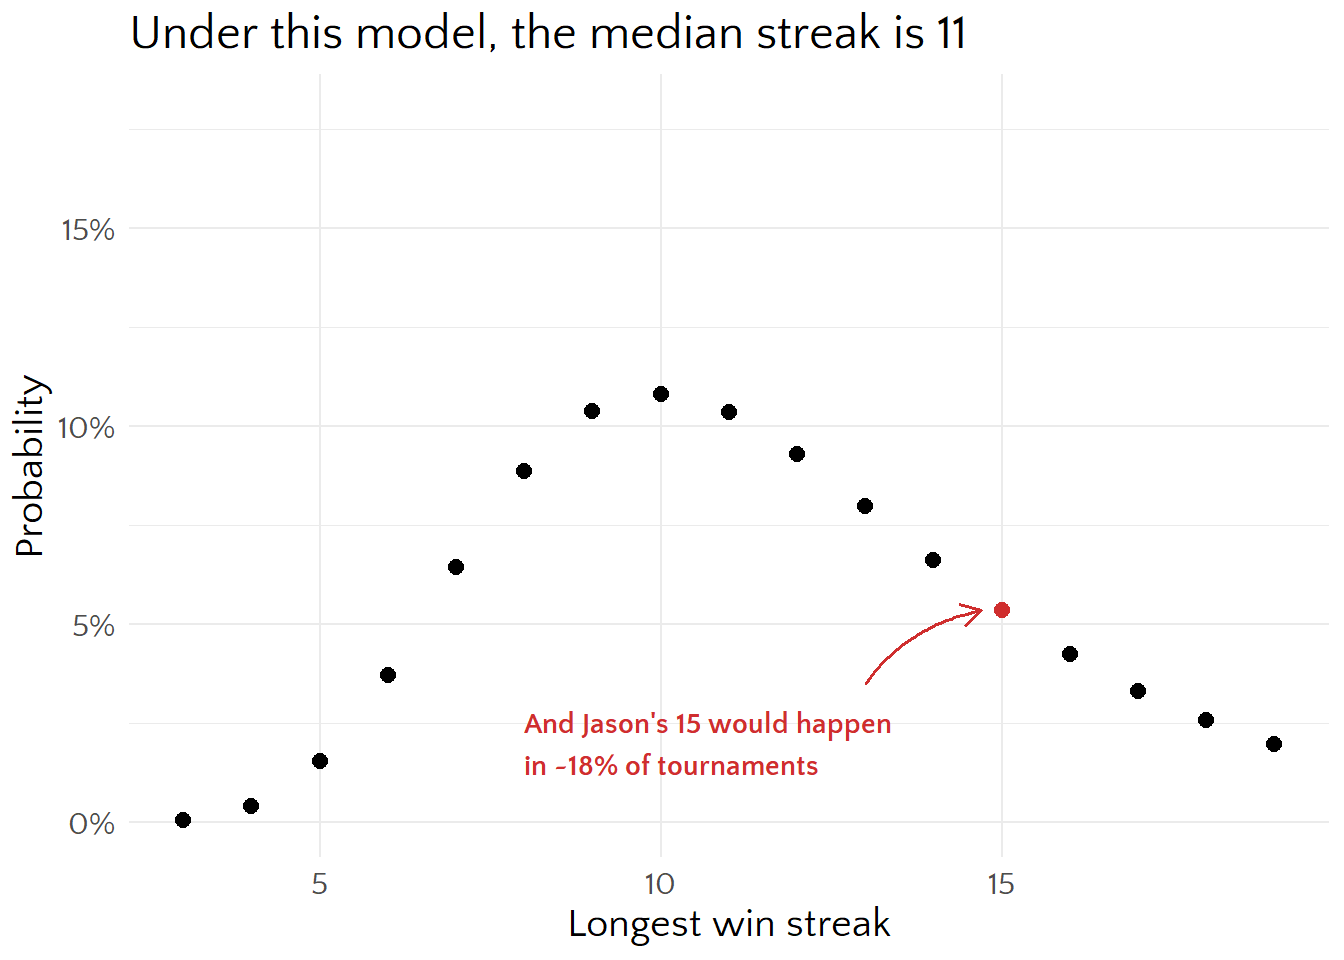
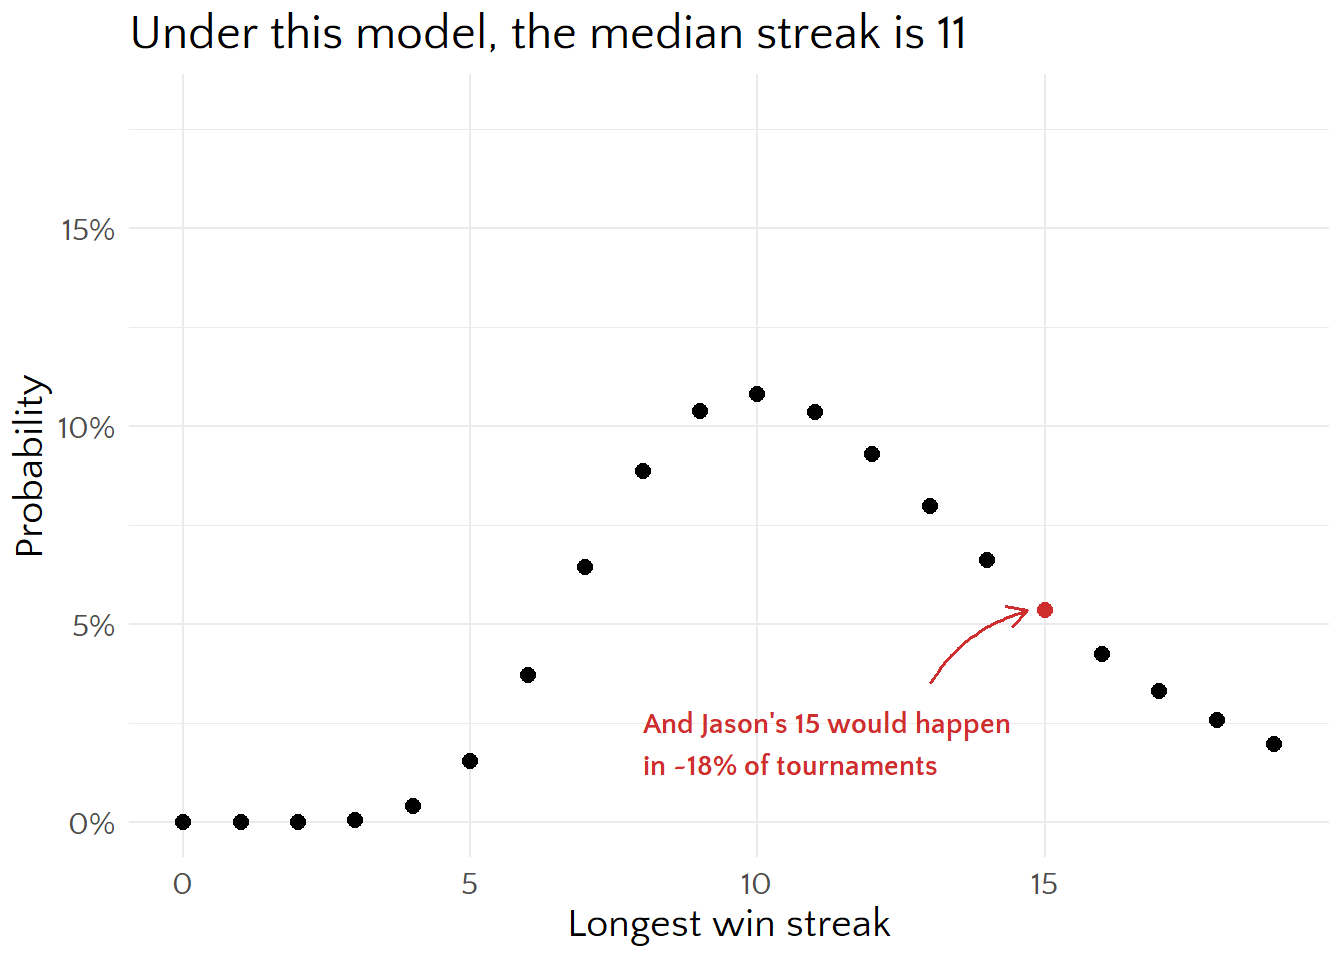
updated itch.io game embed

diff --git a/docs/art.html b/docs/art.html
@@ -71,6 +71,7 @@ ul.task-list li input[type="checkbox"] {
 }</script>
 
 
+<link rel="stylesheet" href="style_snap.css">
 </head>
 
 <body class="nav-fixed quarto-light">
@@ -172,8 +173,8 @@ ul.task-list li input[type="checkbox"] {
 
 <section id="writing" class="level1">
 <h1>Writing</h1>
-<p>When Inkle games was working on Pendragon, they put out a call for short stories to be campfire tales in the game. Mine didn’t get selected, but I’m quite proud of it.</p>
-<iframe width="780" height="500" src="https://lqsullivan.itch.io/a-spell" title="A Spell"></iframe> 
+<p>When Inkle games was working on Pendragon, they put out a call for short stories to be campfire tales in the game. Mine didn’t get selected, but I’m quite proud of it. Some of the dialogue is based on character tags that are assigned randomly here, so if you play it a few times you’ll see some different options (nothing huge though).</p>
+<iframe frameborder="0" src="https://itch.io/embed/641796?border_width=2" width="554" height="169"><a href="https://lqsullivan.itch.io/a-spell">A Spell by lqsullivan</a></iframe>
 </section>
 <section id="pinball-dmd-art" class="level1 page-columns page-full">
 <h1>Pinball DMD art</h1>

diff --git a/docs/index.html b/docs/index.html
@@ -209,7 +209,7 @@ window.Quarto = {
 
 <div class="quarto-listing quarto-listing-container-default" id="listing-listing">
 <div class="list quarto-listing-default">
-<div class="quarto-post image-right" data-index="0" data-listing-date-sort="1789189200000" data-listing-file-modified-sort="1789480576282" data-listing-date-modified-sort="NaN" data-listing-reading-time-sort="28" data-listing-word-count-sort="5491">
+<div class="quarto-post image-right" data-index="0" data-listing-date-sort="1789189200000" data-listing-file-modified-sort="1789480908504" data-listing-date-modified-sort="NaN" data-listing-reading-time-sort="28" data-listing-word-count-sort="5491">
 <div class="thumbnail"><a href="./posts/werdrick_2020_pro_circuit_final.html" class="no-external">
 
 <img loading="lazy" src="./posts/werdrick_title_image.png" class="thumbnail-image">
